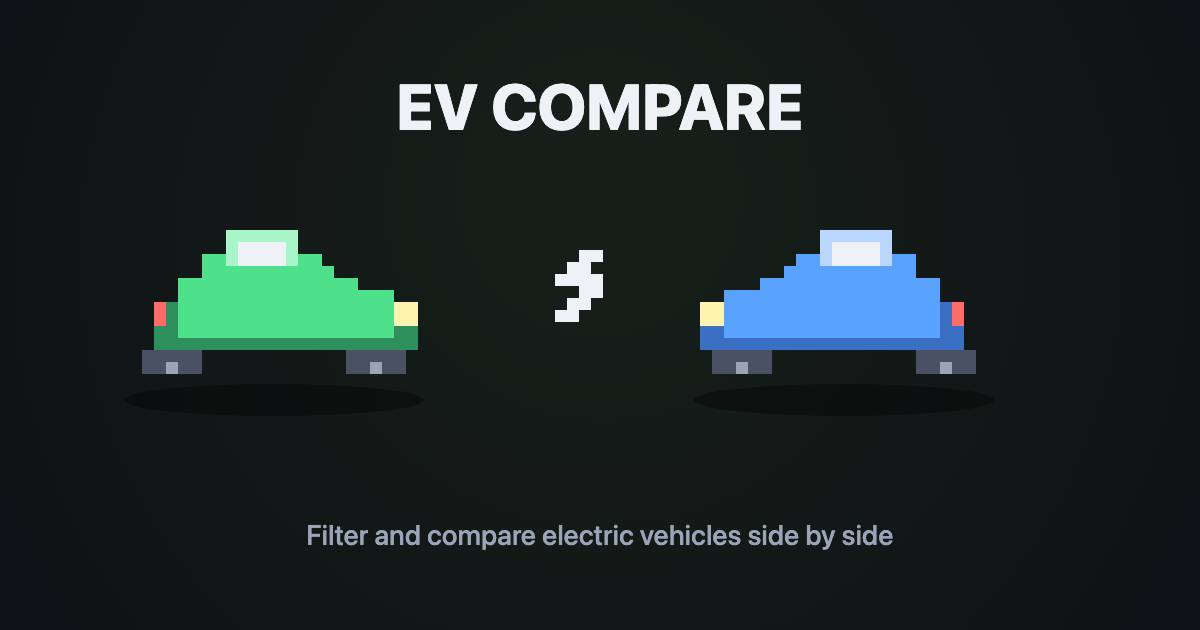
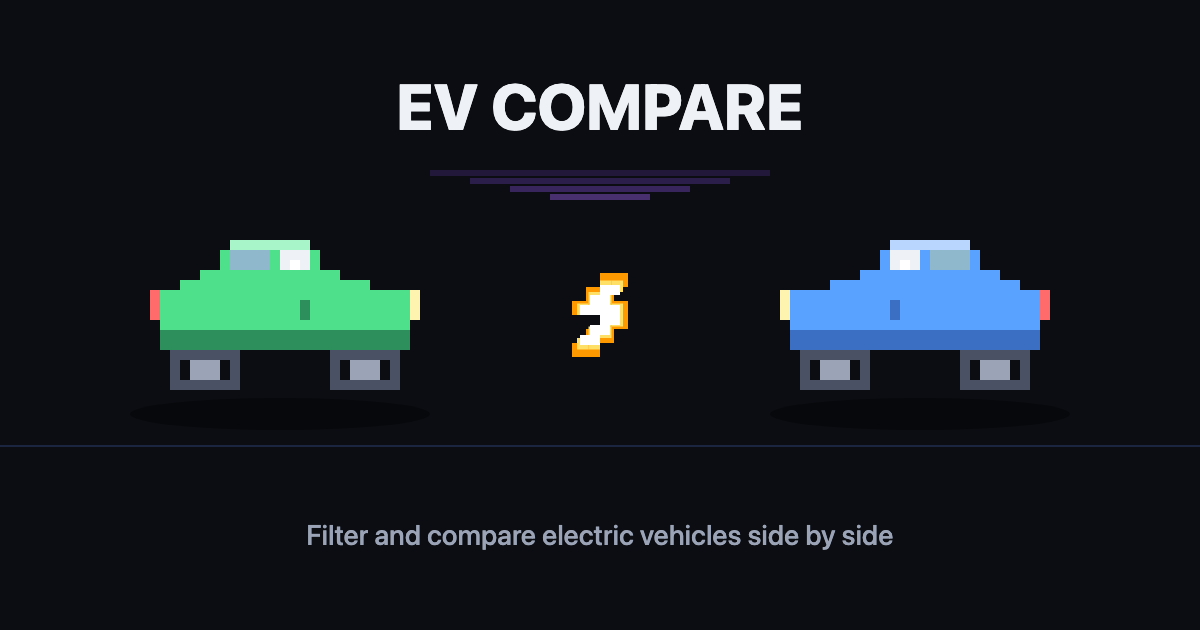
Redraw car sprite, add glow bolt and retro background
Car grid grew 24x12 -> 30x15 for a rounder stepped-shoulder profile
instead of the old single-step taper, plus two-tone windows with a
reflection pixel and a door-line panel break. Studied a reference
image the user shared for technique (panel tiers, layered bolt glow,
horizon background) rather than reusing its actual artwork.

drawBoltGlow() draws the same proven zigzag three times at
decreasing size/increasing brightness (orange -> yellow -> white)
instead of one flat color. Topbar/favicon-scale bolt stays flat
single-color, since a 3-layer glow would likely just look muddy that
small.

Regenerated og-image.png and logo.png from the new grid, and
re-derived the topbar .brand-mark inline SVG by hand - that markup
is a baked snapshot of the grid, not auto-generated, so editing
CAR_RIGHT alone doesn't update it.

Favicon untouched, as asked.

diff --git a/index.html b/index.html
@@ -43,7 +43,7 @@
 
   <header class="topbar">
     <div class="brand">
-      <span class="brand-mark"><svg viewBox="0 0 56 14" width="100" height="25" shape-rendering="crispEdges"><rect x="9" y="1" width="6" height="1" fill="#a8f5c9"/><rect x="9" y="2" width="1" height="1" fill="#a8f5c9"/><rect x="10" y="2" width="4" height="1" fill="#eef1f6"/><rect x="14" y="2" width="1" height="1" fill="#a8f5c9"/><rect x="7" y="3" width="2" height="1" fill="#4ee08a"/><rect x="9" y="3" width="1" height="1" fill="#a8f5c9"/><rect x="10" y="3" width="4" height="1" fill="#eef1f6"/><rect x="14" y="3" width="1" height="1" fill="#a8f5c9"/><rect x="15" y="3" width="2" height="1" fill="#4ee08a"/><rect x="7" y="4" width="11" height="1" fill="#4ee08a"/><rect x="5" y="5" width="15" height="1" fill="#4ee08a"/><rect x="5" y="6" width="18" height="1" fill="#4ee08a"/><rect x="3" y="7" width="1" height="2" fill="#ff6b6b"/><rect x="4" y="7" width="1" height="2" fill="#2c8f5c"/><rect x="5" y="7" width="18" height="2" fill="#4ee08a"/><rect x="23" y="7" width="2" height="2" fill="#fff3b0"/><rect x="3" y="9" width="2" height="1" fill="#2c8f5c"/><rect x="5" y="9" width="18" height="1" fill="#4ee08a"/><rect x="23" y="9" width="2" height="1" fill="#2c8f5c"/><rect x="3" y="10" width="22" height="1" fill="#2c8f5c"/><rect x="2" y="11" width="5" height="1" fill="#4a5164"/><rect x="19" y="11" width="5" height="1" fill="#4a5164"/><rect x="2" y="12" width="2" height="1" fill="#4a5164"/><rect x="4" y="12" width="1" height="1" fill="#9aa4b6"/><rect x="5" y="12" width="2" height="1" fill="#4a5164"/><rect x="19" y="12" width="2" height="1" fill="#4a5164"/><rect x="21" y="12" width="1" height="1" fill="#9aa4b6"/><rect x="22" y="12" width="2" height="1" fill="#4a5164"/><rect x="41" y="1" width="6" height="1" fill="#b9d6ff"/><rect x="41" y="2" width="1" height="1" fill="#b9d6ff"/><rect x="42" y="2" width="4" height="1" fill="#eef1f6"/><rect x="46" y="2" width="1" height="1" fill="#b9d6ff"/><rect x="39" y="3" width="2" height="1" fill="#5aa2ff"/><rect x="41" y="3" width="1" height="1" fill="#b9d6ff"/><rect x="42" y="3" width="4" height="1" fill="#eef1f6"/><rect x="46" y="3" width="1" height="1" fill="#b9d6ff"/><rect x="47" y="3" width="2" height="1" fill="#5aa2ff"/><rect x="38" y="4" width="11" height="1" fill="#5aa2ff"/><rect x="36" y="5" width="15" height="1" fill="#5aa2ff"/><rect x="33" y="6" width="18" height="1" fill="#5aa2ff"/><rect x="31" y="7" width="2" height="2" fill="#fff3b0"/><rect x="33" y="7" width="18" height="2" fill="#5aa2ff"/><rect x="51" y="7" width="1" height="2" fill="#3a6fc4"/><rect x="52" y="7" width="1" height="2" fill="#ff6b6b"/><rect x="31" y="9" width="2" height="1" fill="#3a6fc4"/><rect x="33" y="9" width="18" height="1" fill="#5aa2ff"/><rect x="51" y="9" width="2" height="1" fill="#3a6fc4"/><rect x="31" y="10" width="22" height="1" fill="#3a6fc4"/><rect x="32" y="11" width="5" height="1" fill="#4a5164"/><rect x="49" y="11" width="5" height="1" fill="#4a5164"/><rect x="32" y="12" width="2" height="1" fill="#4a5164"/><rect x="34" y="12" width="1" height="1" fill="#9aa4b6"/><rect x="35" y="12" width="2" height="1" fill="#4a5164"/><rect x="49" y="12" width="2" height="1" fill="#4a5164"/><rect x="51" y="12" width="1" height="1" fill="#9aa4b6"/><rect x="52" y="12" width="2" height="1" fill="#4a5164"/><rect x="28" y="4" width="2" height="1" fill="#eef1f6"/><rect x="27" y="5" width="2" height="1" fill="#eef1f6"/><rect x="26" y="6" width="4" height="1" fill="#eef1f6"/><rect x="28" y="7" width="2" height="1" fill="#eef1f6"/><rect x="27" y="8" width="2" height="1" fill="#eef1f6"/><rect x="26" y="9" width="2" height="1" fill="#eef1f6"/></svg></span>
+      <span class="brand-mark"><svg viewBox="0 0 68 17" width="100" height="25" shape-rendering="crispEdges"><rect x="11" y="1" width="8" height="1" fill="#a8f5c9"/><rect x="10" y="2" width="1" height="1" fill="#4ee08a"/><rect x="11" y="2" width="4" height="1" fill="#8fb8cc"/><rect x="15" y="2" width="1" height="1" fill="#4ee08a"/><rect x="16" y="2" width="3" height="1" fill="#eef1f6"/><rect x="19" y="2" width="1" height="1" fill="#4ee08a"/><rect x="10" y="3" width="1" height="1" fill="#4ee08a"/><rect x="11" y="3" width="4" height="1" fill="#8fb8cc"/><rect x="15" y="3" width="1" height="1" fill="#4ee08a"/><rect x="16" y="3" width="1" height="1" fill="#eef1f6"/><rect x="17" y="3" width="1" height="1" fill="#ffffff"/><rect x="18" y="3" width="1" height="1" fill="#eef1f6"/><rect x="19" y="3" width="1" height="1" fill="#4ee08a"/><rect x="8" y="4" width="14" height="1" fill="#4ee08a"/><rect x="6" y="5" width="19" height="1" fill="#4ee08a"/><rect x="3" y="6" width="1" height="1" fill="#ff6b6b"/><rect x="4" y="6" width="25" height="1" fill="#4ee08a"/><rect x="29" y="6" width="1" height="1" fill="#fff3b0"/><rect x="3" y="7" width="1" height="2" fill="#ff6b6b"/><rect x="4" y="7" width="14" height="2" fill="#4ee08a"/><rect x="18" y="7" width="1" height="2" fill="#2c8f5c"/><rect x="19" y="7" width="10" height="2" fill="#4ee08a"/><rect x="29" y="7" width="1" height="2" fill="#fff3b0"/><rect x="4" y="9" width="25" height="1" fill="#4ee08a"/><rect x="4" y="10" width="25" height="2" fill="#2c8f5c"/><rect x="5" y="12" width="7" height="1" fill="#4a5164"/><rect x="21" y="12" width="7" height="1" fill="#4a5164"/><rect x="5" y="13" width="1" height="2" fill="#4a5164"/><rect x="7" y="13" width="3" height="2" fill="#9aa4b6"/><rect x="11" y="13" width="1" height="2" fill="#4a5164"/><rect x="21" y="13" width="1" height="2" fill="#4a5164"/><rect x="23" y="13" width="3" height="2" fill="#9aa4b6"/><rect x="27" y="13" width="1" height="2" fill="#4a5164"/><rect x="5" y="15" width="7" height="1" fill="#4a5164"/><rect x="21" y="15" width="7" height="1" fill="#4a5164"/><rect x="49" y="1" width="8" height="1" fill="#b9d6ff"/><rect x="48" y="2" width="1" height="1" fill="#5aa2ff"/><rect x="49" y="2" width="3" height="1" fill="#eef1f6"/><rect x="52" y="2" width="1" height="1" fill="#5aa2ff"/><rect x="53" y="2" width="4" height="1" fill="#8fb8cc"/><rect x="57" y="2" width="1" height="1" fill="#5aa2ff"/><rect x="48" y="3" width="1" height="1" fill="#5aa2ff"/><rect x="49" y="3" width="1" height="1" fill="#eef1f6"/><rect x="50" y="3" width="1" height="1" fill="#ffffff"/><rect x="51" y="3" width="1" height="1" fill="#eef1f6"/><rect x="52" y="3" width="1" height="1" fill="#5aa2ff"/><rect x="53" y="3" width="4" height="1" fill="#8fb8cc"/><rect x="57" y="3" width="1" height="1" fill="#5aa2ff"/><rect x="46" y="4" width="14" height="1" fill="#5aa2ff"/><rect x="43" y="5" width="19" height="1" fill="#5aa2ff"/><rect x="38" y="6" width="1" height="1" fill="#fff3b0"/><rect x="39" y="6" width="25" height="1" fill="#5aa2ff"/><rect x="64" y="6" width="1" height="1" fill="#ff6b6b"/><rect x="38" y="7" width="1" height="2" fill="#fff3b0"/><rect x="39" y="7" width="10" height="2" fill="#5aa2ff"/><rect x="49" y="7" width="1" height="2" fill="#3a6fc4"/><rect x="50" y="7" width="14" height="2" fill="#5aa2ff"/><rect x="64" y="7" width="1" height="2" fill="#ff6b6b"/><rect x="39" y="9" width="25" height="1" fill="#5aa2ff"/><rect x="39" y="10" width="25" height="2" fill="#3a6fc4"/><rect x="40" y="12" width="7" height="1" fill="#4a5164"/><rect x="56" y="12" width="7" height="1" fill="#4a5164"/><rect x="40" y="13" width="1" height="2" fill="#4a5164"/><rect x="42" y="13" width="3" height="2" fill="#9aa4b6"/><rect x="46" y="13" width="1" height="2" fill="#4a5164"/><rect x="56" y="13" width="1" height="2" fill="#4a5164"/><rect x="58" y="13" width="3" height="2" fill="#9aa4b6"/><rect x="62" y="13" width="1" height="2" fill="#4a5164"/><rect x="40" y="15" width="7" height="1" fill="#4a5164"/><rect x="56" y="15" width="7" height="1" fill="#4a5164"/><rect x="34" y="5" width="2" height="1" fill="#eef1f6"/><rect x="33" y="6" width="2" height="1" fill="#eef1f6"/><rect x="32" y="7" width="4" height="1" fill="#eef1f6"/><rect x="34" y="8" width="2" height="1" fill="#eef1f6"/><rect x="33" y="9" width="2" height="1" fill="#eef1f6"/><rect x="32" y="10" width="2" height="1" fill="#eef1f6"/></svg></span>
       <span class="brand-name">EV Compare</span>
     </div>
     <div class="topbar-search">

diff --git a/scripts/og-image-template.html b/scripts/og-image-template.html
@@ -45,29 +45,37 @@ const COLORS = {
   b: "#5aa2ff",   // car B body (--accent-2)
   d: "#3a6fc4",   // car B shadow
   l: "#b9d6ff",   // car B highlight
-  W: "#eef1f6",   // window
+  W: "#eef1f6",   // near window (windshield side)
+  V: "#8fb8cc",   // far window (rear glass, slightly darker/duller)
+  X: "#ffffff",   // window reflection accent
   K: "#4a5164",   // tire (mid-gray — visible against the dark background)
   k: "#9aa4b6",   // hubcap highlight
   H: "#fff3b0",   // headlight
   R: "#ff6b6b",   // taillight
 };
 
-// 24 wide x 12 tall, facing RIGHT (headlight at the far column). Deliberately blocky/stepped
-// (flat tiers, right-angle corners) rather than a smooth curve, to read as 8-bit rather than
-// just a small rounded blob.
+// 30 wide x 15 tall, facing RIGHT (headlight at the far column). Second pass at this sprite —
+// the original 24x12 version read as too pointy/triangular (the roof-to-hood and hood-to-nose
+// transitions were single-step tapers). This one uses a proper stepped "shoulder" (two width
+// tiers between the cabin and the full-width body) for a rounder silhouette, a two-tone window
+// (near/far glass) with a reflection pixel, and a door-line panel break, closer to how a hand-
+// drawn 8-bit car sprite actually breaks up its panels rather than one flat block of body color.
 const CAR_RIGHT = [
-  "........LLLLLL..........",
-  "........LWWWWL..........",
-  "......BBLWWWWLBB........",
-  "......BBBBBBBBBBB.......",
-  "....BBBBBBBBBBBBBBB.....",
-  "....BBBBBBBBBBBBBBBBBB..",
-  "..RDBBBBBBBBBBBBBBBBBBHH",
-  "..RDBBBBBBBBBBBBBBBBBBHH",
-  "..DDBBBBBBBBBBBBBBBBBBDD",
-  "..DDDDDDDDDDDDDDDDDDDDDD",
-  ".KKKKK............KKKKK.",
-  ".KKkKK............KKkKK.",
+  "..........LLLLLLLL............",
+  ".........BVVVVBWWWB...........",
+  ".........BVVVVBWXWB...........",
+  ".......BBBBBBBBBBBBBB.........",
+  ".....BBBBBBBBBBBBBBBBBBB......",
+  "..RBBBBBBBBBBBBBBBBBBBBBBBBBH.",
+  "..RBBBBBBBBBBBBBBDBBBBBBBBBBH.",
+  "..RBBBBBBBBBBBBBBDBBBBBBBBBBH.",
+  "...BBBBBBBBBBBBBBBBBBBBBBBBB..",
+  "...DDDDDDDDDDDDDDDDDDDDDDDDD..",
+  "...DDDDDDDDDDDDDDDDDDDDDDDDD..",
+  "....KKKKKKK.........KKKKKKK...",
+  "....K.kkk.K.........K.kkk.K...",
+  "....K.kkk.K.........K.kkk.K...",
+  "....KKKKKKK.........KKKKKKK...",
 ];
 
 function mirror(row) { return row.split("").reverse().join(""); }
@@ -90,21 +98,38 @@ function drawSprite(ctx, grid, ox, oy, px) {
   }
 }
 
+const BOLT_SHAPE = [
+  "..LL",
+  ".LL.",
+  "LLLL",
+  "..LL",
+  ".LL.",
+  "LL..",
+];
+
 function drawBolt(ctx, ox, oy, px, color) {
-  const bolt = [
-    "..LL",
-    ".LL.",
-    "LLLL",
-    "..LL",
-    ".LL.",
-    "LL..",
-  ];
-  for (let y = 0; y < bolt.length; y++) {
-    for (let x = 0; x < bolt[y].length; x++) {
-      if (bolt[y][x] === ".") continue;
+  for (let y = 0; y < BOLT_SHAPE.length; y++) {
+    for (let x = 0; x < BOLT_SHAPE[y].length; x++) {
+      if (BOLT_SHAPE[y][x] === ".") continue;
       ctx.fillStyle = color;
       ctx.fillRect(ox + x * px, oy + y * px, px, px);
     }
+  }
+}
+
+// Same proven zigzag as drawBolt, drawn three times at decreasing size and increasing
+// brightness (outer orange -> mid yellow -> white core), centered on one point — a layered
+// glow instead of one flat color. (cx, cy) is the shape's visual center, not a top-left corner.
+function drawBoltGlow(ctx, cx, cy, basePx) {
+  const layers = [
+    { mult: 1.4, color: "#ff9900" },
+    { mult: 1.15, color: "#ffe066" },
+    { mult: 1.0, color: "#ffffff" },
+  ];
+  const gw = BOLT_SHAPE[0].length, gh = BOLT_SHAPE.length;
+  for (const { mult, color } of layers) {
+    const px = basePx * mult;
+    drawBolt(ctx, cx - (gw * px) / 2, cy - (gh * px) / 2, px, color);
   }
 }
 
@@ -161,24 +186,40 @@ if (mode === "icon") {
   canvas.width = 1200;
   canvas.height = 630;
 
-  const grad = ctx.createRadialGradient(600, 180, 60, 600, 315, 900);
-  grad.addColorStop(0, "#161f1a");
-  grad.addColorStop(1, "#0b0d12");
-  ctx.fillStyle = grad;
+  ctx.fillStyle = "#0b0d12";
   ctx.fillRect(0, 0, 1200, 630);
 
-  const px = 12;
+  // Retro horizon glow — a few violet bars narrowing toward a vanishing point, filling the
+  // gap between the title and the cars. Kept well clear of the tagline text below the cars
+  // (no grid lines crossing that zone) so it reads as atmosphere, not clutter.
+  const horizonBars = [
+    [430, 170, 340, 6, "#221839"],
+    [470, 178, 260, 6, "#2c1e4a"],
+    [510, 186, 180, 6, "#38255c"],
+    [550, 194, 100, 6, "#48306f"],
+  ];
+  for (const [x, y, w, h, color] of horizonBars) {
+    ctx.fillStyle = color;
+    ctx.fillRect(x, y, w, h);
+  }
+  ctx.fillStyle = "#1c2540";
+  ctx.fillRect(0, 445, 1200, 2);
+
+  const px = 10;
+  const carAX = 130, carBX = 770, carY = 240;
+  const carW = CAR_RIGHT[0].length * px, carH = CAR_RIGHT.length * px;
+
   ctx.fillStyle = "rgba(0,0,0,0.35)";
   ctx.beginPath();
-  ctx.ellipse(130 + 12 * px, 400, 150, 16, 0, 0, Math.PI * 2);
+  ctx.ellipse(carAX + carW / 2, carY + carH + 24, 150, 16, 0, 0, Math.PI * 2);
   ctx.fill();
   ctx.beginPath();
-  ctx.ellipse(700 + 12 * px, 400, 150, 16, 0, 0, Math.PI * 2);
+  ctx.ellipse(carBX + carW / 2, carY + carH + 24, 150, 16, 0, 0, Math.PI * 2);
   ctx.fill();
 
-  drawSprite(ctx, CAR_RIGHT, 130, 230, px);
-  drawSprite(ctx, CAR_LEFT, 700, 230, px);
-  drawBolt(ctx, 555, 250, px, "#eef1f6");
+  drawSprite(ctx, CAR_RIGHT, carAX, carY, px);
+  drawSprite(ctx, CAR_LEFT, carBX, carY, px);
+  drawBoltGlow(ctx, (carAX + carW + carBX) / 2, carY + carH / 2, 10);
 
   ctx.textAlign = "center";
   ctx.fillStyle = "#eef1f6";
@@ -209,20 +250,27 @@ if (mode === "icon") {
   canvas.width = 512;
   canvas.height = 512;
 
-  const grad = ctx.createRadialGradient(256, 220, 40, 256, 256, 360);
-  grad.addColorStop(0, "#161f1a");
-  grad.addColorStop(1, "#0b0d12");
-  ctx.fillStyle = grad;
+  ctx.fillStyle = "#0b0d12";
   ctx.fillRect(0, 0, 512, 512);
+  const horizonBars = [
+    [156, 132, 200, 4, "#221839"],
+    [176, 138, 160, 4, "#2c1e4a"],
+    [196, 144, 120, 4, "#38255c"],
+    [216, 150, 80, 4, "#48306f"],
+  ];
+  for (const [x, y, w, h, color] of horizonBars) {
+    ctx.fillStyle = color;
+    ctx.fillRect(x, y, w, h);
+  }
 
   // Just car A, centered, for a larger brand-mark asset (README/social-profile scale — the
   // browser-tab favicon itself stays the simple bolt SVG already in index.html, since a full
   // sprite this detailed won't read at 16-32px).
-  const px = 14;
+  const px = 11;
   const w = CAR_RIGHT[0].length * px;
   const h = CAR_RIGHT.length * px;
   const ox = (512 - w) / 2;
-  const oy = (512 - h) / 2 - 10;
+  const oy = (512 - h) / 2 - 6;
 
   ctx.fillStyle = "rgba(0,0,0,0.35)";
   ctx.beginPath();

diff --git a/TODO.md b/TODO.md
@@ -392,3 +392,15 @@ Two follow-ups from a screenshot of the bolt-in-badge work above: the favicon's 
 **Follow-up same day**: user flagged a real problem before shipping — the topbar bolt (`#eef1f6`, near-white) had no background of its own anymore (the `.brand-mark` badge lost its colored backdrop in the swap above), so on a light-theme white page it would have nearly disappeared. Asked to bring back the old `.brand-mark` gradient badge behind the new two-car mark.
 - Restored `.brand-mark`'s `linear-gradient(145deg, var(--accent), var(--accent-2))` background + `border-radius: 9px`, now sized as padding (`4px 8px`) around the wider content instead of a fixed 30×30 square. Shrank the SVG's display size from 120×30 to 100×25 to leave room for that padding.
 - Real trade-off worth knowing about: putting the cars back on their own accent-colored background means the green car's lighter roof/highlight blends a little into the gradient's green zone (same for blue car/blue zone) — less "pop" than they had sitting on plain white. Judged acceptable since the darker shadow/wheel tones still keep both cars readable as distinct car shapes, and the bolt's contrast problem (the actual blocking issue) is now fully solved. Checked both light and dark theme live — reads cleanly in both.
+
+# TODO: Redrawn car sprite, glow bolt, retro background (2026-08-21)
+
+User shared a reference SVG (a much more detailed 8-bit car-vs-car scene from another site) and asked to nudge the OG image and logo in that direction — the sprites were "a little lo-fi and pointy." Favicon explicitly left alone. Studied the reference's *techniques* (stepped panel tiers instead of a triangular taper, two-tone windows with a reflection pixel, a layered glow instead of a flat-color bolt, retro horizon-glow background) and built an original sprite using them, rather than reusing their actual artwork/code.
+
+- **`CAR_RIGHT` grid grew from 24×12 to 30×15** — the old sprite tapered from cabin straight down to the nose/tail in one step, which is what read as "pointy." The new one adds an extra shoulder tier between the cabin and the full-width body for a rounder profile, a door-line panel break, and two-tone glass (`V` for the far/rear window, `W` for the near/windshield side, plus a bright `X` reflection pixel) instead of one flat window color. Built the grid programmatically (row-by-row band definitions in a Python throwaway script) rather than hand-typing 30-character strings — caught and fixed one off-by-one row-length bug this way before it ever hit a render.
+- **New `drawBoltGlow()`** — same proven zigzag shape as the existing `drawBolt`, just drawn three times at decreasing size and increasing brightness (outer orange → mid yellow → white core), centered on one point. Reuses the shape entirely; the "glow" is purely a rendering technique, not a new shape to design. Used for the OG image and logo; the topbar/favicon-scale bolt stays the flat single-color version since a 3-layer glow would likely just look muddy at that size.
+- **Retro horizon-glow background** on both the OG image and logo.png — a few stacked violet bars narrowing toward a vanishing point, positioned in the gap between the title and the cars (OG image) or above the car's roof (logo). Iterated once: the first pass used thin 3px lines that read as a stray floating line rather than atmosphere, and a ground grid whose vertical lines crossed right through the tagline text — fixed by widening/brightening the bars and dropping the ground grid down to a single subtle line well clear of the text.
+- **Regenerated all three consumers from the same updated grid**: `assets/og-image.png`, `assets/logo.png` (both via the same local-Chrome-headless-screenshot pipeline as before, no new dependencies), and the topbar `.brand-mark` inline SVG. That last one caught a real gotcha: the SVG markup in `index.html`/`prerender.mjs` is a *baked snapshot*, hand-generated from the grid at the time — editing `CAR_RIGHT` in the template doesn't automatically update it. Had to regenerate the rect markup from the new grid/colors and re-paste into both files, same as the very first bolt swap.
+- Favicon untouched, exactly as asked — still the simple flat bolt-on-green-box from the previous batch.
+
+**Verified**: rendered each mode standalone and iterated on the rough spots (bolt size, horizon bar visibility/position) before finalizing; regenerated `dist/` clean and checked live in the actual app — zoomed 3x on both the homepage and a car detail page to confirm the new rounder cars render correctly in the topbar badge, no console errors either page.
